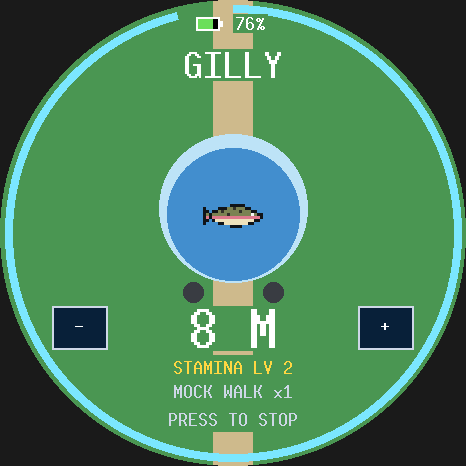
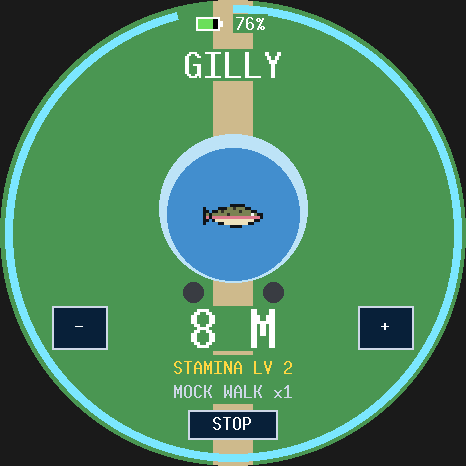
touch for everything PWR does: Angler starts on a tap, charges a cast while a finger is held and casts when it lifts, and reels in on a tap; a walk has STOP, teaching has DONE/BACK, practice has BACK beside NEW COMMAND, and the contest's tier rows and BACK take taps (drawn from the same rectangles).

Changed region(s): [[0.3605, 0.8412, 0.6309, 0.9614]]

diff --git a/crates/pals_game/src/contest.rs b/crates/pals_game/src/contest.rs
@@ -98,6 +98,19 @@ pub const RIVALS: [&str; 3] = ["SPLASHY", "FINLEY", "OLD BOOTS"];
 /// The tier list: the four, then BACK.
 const TIER_CHOICES: usize = TIERS.len() + 1;
 
+pub mod ui {
+    pub use orbit_ui::Button;
+
+    /// The tier list's rows (drawn by `choose_tier`), then BACK under them.
+    pub const TIER_BUTTONS: [Button; 5] = [
+        Button::new(83, 106, 300, 44, ""),
+        Button::new(83, 158, 300, 44, ""),
+        Button::new(83, 210, 300, 44, ""),
+        Button::new(83, 262, 300, 44, ""),
+        Button::new(183, 330, 100, 32, ""),
+    ];
+}
+
 /// A show in progress.
 #[derive(Clone, Debug, PartialEq)]
 pub struct Show {
@@ -280,8 +293,12 @@ fn perform(
         }
         ContestPhase::ChooseTier { pet } => {
             let pet = *pet;
-            if pressed {
-                let pointed = list_choice(tilt.steer_deg, TIER_CHOICES, 0);
+            let tapped = tap.and_then(|at| {
+                let row = orbit_ui::tapped(at, &ui::TIER_BUTTONS)?;
+                ui::TIER_BUTTONS.iter().position(|button| button == row)
+            });
+            let picked = tapped.or(pressed.then(|| list_choice(tilt.steer_deg, TIER_CHOICES, 0)));
+            if let Some(pointed) = picked {
                 let level = pals.pets[pet].stamina_level();
                 next = match TIERS.get(pointed) {
                     Some(tier) if level >= tier.min_level => {
@@ -542,11 +559,19 @@ fn choose_tier(shapes: &mut Vec<Shape>, pals: &Pals, pet: &Pet, pointed: usize) 
     );
     let level = pet.stamina_level();
     for (i, tier) in TIERS.iter().enumerate() {
-        let y = 128 + i as i32 * 52;
+        let row = ui::TIER_BUTTONS[i].area;
+        let (left, top) = (row.top_left.x, row.top_left.y);
+        let y = top + row.size.height as i32 / 2;
         let open = level >= tier.min_level;
         let frame = if i == pointed { GOLD } else { CURTAIN };
-        shapes.push(rect(83, y - 22, 300, 44, frame));
-        shapes.push(rect(85, y - 20, 296, 40, DEEP));
+        shapes.push(rect(left, top, row.size.width, row.size.height, frame));
+        shapes.push(rect(
+            left + 2,
+            top + 2,
+            row.size.width - 4,
+            row.size.height - 4,
+            DEEP,
+        ));
         shapes.push(label_at(
             Point::new(170, y),
             tier.name,

diff --git a/crates/angler_game/tests/angler.rs b/crates/angler_game/tests/angler.rs
@@ -332,6 +332,59 @@ fn ignoring_the_fight_lets_the_fish_escape_and_play_resumes() {
 }
 
 #[test]
+fn a_tap_off_the_buttons_starts_fishing_too() {
+    let mut app = headless_app();
+    tap(&mut app, Vec2::new(233.0, 260.0));
+    assert!(
+        matches!(phase(&app), Phase::Aim { .. }),
+        "{:?}",
+        phase(&app)
+    );
+}
+
+#[test]
+fn a_finger_held_down_charges_the_cast_and_lifting_it_casts() {
+    let mut app = headless_app();
+    start_aiming(&mut app);
+    set_tilt(&mut app, -15.0, 0.0);
+    let finger = Vec2::new(233.0, 300.0);
+    for _ in 0..frames_for(0.5) {
+        app.world_mut()
+            .resource_mut::<orbit_core::Touch>()
+            .set(Some(finger));
+        update(&mut app);
+    }
+    assert!(matches!(
+        phase(&app),
+        Phase::Aim {
+            charging_secs: Some(_)
+        }
+    ));
+    app.world_mut()
+        .resource_mut::<orbit_core::Touch>()
+        .set(None);
+    update(&mut app);
+    let Phase::Flight { flight, .. } = phase(&app) else {
+        panic!("expected a cast, got {:?}", phase(&app));
+    };
+    let expected = Flight::launch(55.0, 0.5).vel;
+    assert!(flight.vel.distance(expected) < 25.0, "{:?}", flight.vel);
+}
+
+#[test]
+fn a_tap_while_waiting_reels_the_line_back_in() {
+    let mut app = headless_app();
+    start_aiming(&mut app);
+    cast_onto_spot(&mut app, 0.0, 0.7);
+    assert!(run_until(&mut app, 600, |p| matches!(
+        p,
+        Phase::Waiting { .. }
+    )));
+    tap(&mut app, Vec2::new(233.0, 300.0));
+    assert_eq!(phase(&app), Phase::Notice("REELED IN"));
+}
+
+#[test]
 fn pressing_while_waiting_reels_the_line_back_in() {
     let mut app = headless_app();
     start_aiming(&mut app);
@@ -401,11 +454,9 @@ fn sounds(app: &App) -> Vec<SoundCommand> {
 }
 
 #[test]
-fn the_title_has_log_and_settings_buttons_and_stray_taps_do_nothing() {
+fn the_title_has_log_and_settings_buttons() {
     let mut app = headless_app();
     assert!(shows(&app, "LOG") && shows(&app, "SETTINGS"));
-    tap(&mut app, Vec2::new(233.0, 300.0));
-    assert_eq!(phase(&app), Phase::Title);
     open_settings(&mut app);
     assert!(shows(&app, "DIFFICULTY") && shows(&app, "NORMAL"));
 }

diff --git a/crates/angler_game/src/session.rs b/crates/angler_game/src/session.rs
@@ -196,6 +196,8 @@ fn play(
     let action = buttons.action;
 
     let tap = touch.just_pressed();
+    // A finger on the glass works the cast like holding PWR.
+    let holding = action.held() || touch.position().is_some();
     let on_screen: &[ui::Button] = match session.phase {
         Phase::Title => &[ui::HOME, ui::LOG, ui::SETTINGS],
         Phase::Settings => &[ui::EASIER, ui::HARDER, ui::GUTEN, ui::BACK],
@@ -234,6 +236,7 @@ fn play(
         Phase::Title if action.pressed() => Some(aim()),
         Phase::Title if tapped(&ui::LOG) => Some(Phase::Log),
         Phase::Title if tapped(&ui::SETTINGS) => Some(Phase::Settings),
+        Phase::Title if tap => Some(aim()),
         Phase::Log if action.pressed() || tap => Some(Phase::Title),
         Phase::Settings if tapped(&ui::HARDER) => {
             difficulty_change = Some(settings.difficulty.next());
@@ -259,15 +262,15 @@ fn play(
             charging_secs: None,
         } if tapped(&ui::MENU) => Some(Phase::Title),
         Phase::Aim { charging_secs } => match *charging_secs {
-            None if action.pressed() => {
+            None if action.pressed() || tap => {
                 *charging_secs = Some(0.0);
                 None
             }
-            Some(secs) if action.held() && secs + dt > cast::MAX_CHARGE_SECS => {
+            Some(secs) if holding && secs + dt > cast::MAX_CHARGE_SECS => {
                 *charging_secs = None;
                 Some(Phase::Notice("LET GO!"))
             }
-            Some(secs) if action.held() => {
+            Some(secs) if holding => {
                 *charging_secs = Some(secs + dt);
                 None
             }
@@ -289,7 +292,7 @@ fn play(
             }
             None => None,
         },
-        Phase::Waiting { .. } if action.pressed() => Some(Phase::Notice("REELED IN")),
+        Phase::Waiting { .. } if action.pressed() || tap => Some(Phase::Notice("REELED IN")),
         Phase::Waiting {
             bobber_x,
             bite_in,

diff --git a/crates/pals_game/src/walk.rs b/crates/pals_game/src/walk.rs
@@ -38,6 +38,8 @@ pub mod ui {
     /// On a mock walk: slow it down, or fast-forward it.
     pub const SLOWER: Button = Button::new(52, 306, 56, 44, "-");
     pub const FASTER: Button = Button::new(358, 306, 56, 44, "+");
+    /// Ends the walk, like PWR.
+    pub const STOP: Button = Button::new(188, 410, 90, 30, "STOP");
 }
 
 #[derive(Clone, Debug, PartialEq)]
@@ -204,11 +206,12 @@ fn stroll(
                 *levelled_at = Some(*secs);
                 sound.play(&angler_game::audio::CATCH);
             }
-            save |= *unsaved_m >= SAVE_EVERY_M || pressed;
+            let stop = pressed || tap.is_some_and(|at| ui::STOP.hit(at));
+            save |= *unsaved_m >= SAVE_EVERY_M || stop;
             if save {
                 *unsaved_m = 0.0;
             }
-            if pressed {
+            if stop {
                 next = Some(WalkPhase::Done {
                     pet: *pet,
                     meters: trail.meters as u32,
@@ -274,12 +277,9 @@ fn draw_frame(
                 (None, None) if *secs >= NO_SKY_SECS => "NO SKY? TRY MOCK WALK".into(),
                 (None, None) => "LOOKING FOR THE SKY".into(),
             };
-            let lines = [
-                label(368, &level, 1, GOLD),
-                label(392, &status, 1, HINT),
-                label(420, "PRESS TO STOP", 1, HINT),
-            ];
+            let lines = [label(368, &level, 1, GOLD), label(392, &status, 1, HINT)];
             plated_lines(shapes, lines, GRASS);
+            button(shapes, &ui::STOP);
             if levelled_at.is_some_and(|at| secs - at < LEVEL_UP_SECS) {
                 text(shapes, label(104, "LEVEL UP!", 2, GOLD));
             }

diff --git a/crates/pals_game/src/home/mod.rs b/crates/pals_game/src/home/mod.rs
@@ -279,7 +279,11 @@ fn play(
         HomePhase::Tank => &[ui::OUT],
         HomePhase::Card { .. } => &ui::CARD_BUTTONS,
         HomePhase::Tricks { .. } => &ui::TRICK_ROWS,
-        HomePhase::Practice { .. } => &[ui::NEW_WORD],
+        HomePhase::Practice { .. } => &[ui::NEW_WORD, ui::PRACTICE_BACK],
+        HomePhase::Teach {
+            step: TeachStep::Listen { .. },
+            ..
+        } => &[ui::TEACH_DONE],
         _ => &[],
     };
     let pressed_button = tap.and_then(|at| orbit_ui::tapped(at, on_screen));
@@ -458,7 +462,7 @@ fn play(
                     (None, _) => (Heard::Once(gesture), None),
                 };
             }
-            if pressed {
+            if pressed || tapped(&ui::TEACH_DONE) {
                 let (voice, gesture) = (word.sure(), drawn.sure());
                 if voice.is_none() && gesture.is_none() {
                     next = Some(HomePhase::Tricks { pet });
@@ -505,7 +509,7 @@ fn play(
                     slot,
                     step: listening(),
                 });
-            } else if pressed {
+            } else if pressed || tapped(&ui::PRACTICE_BACK) {
                 next = Some(HomePhase::Tricks { pet });
             } else if let Some(meant) = command {
                 match meant {

diff --git a/crates/pals_game/tests/home.rs b/crates/pals_game/tests/home.rs
@@ -355,3 +355,40 @@ fn a_second_take_of_a_different_word_isnt_taken() {
     assert!(shows(&app, "THAT SOUNDED DIFFERENT"));
     assert!(shows(&app, "SAY IT AGAIN"));
 }
+
+#[test]
+fn tapping_back_ends_practice() {
+    let mut app = practicing(10);
+    tap(&mut app, pals_game::home::ui::PRACTICE_BACK.center());
+    assert_eq!(phase(&app), HomePhase::Tricks { pet: 0 });
+}
+
+#[test]
+fn tapping_done_finishes_teaching_and_back_leaves_untaught() {
+    let mut app = home_with(vec![pet("GILLY", None)]);
+    open_trick(&mut app, 2);
+    tick(&mut app, 60 * 4);
+    assert!(matches!(
+        phase(&app),
+        HomePhase::Teach {
+            step: TeachStep::Listen { .. },
+            ..
+        }
+    ));
+    assert!(shows(&app, "BACK"));
+    tap(&mut app, pals_game::home::ui::TEACH_DONE.center());
+    assert_eq!(phase(&app), HomePhase::Tricks { pet: 0 });
+
+    let mut app = home_with(vec![pet("GILLY", None)]);
+    open_trick(&mut app, 2);
+    tick(&mut app, 60 * 4);
+    swipe_up(&mut app);
+    swipe_up(&mut app);
+    assert!(shows(&app, "DONE"));
+    tap(&mut app, pals_game::home::ui::TEACH_DONE.center());
+    assert!(
+        matches!(phase(&app), HomePhase::Practice { slot: 2, .. }),
+        "{:?}",
+        phase(&app)
+    );
+}

diff --git a/crates/pals_game/src/home/draw.rs b/crates/pals_game/src/home/draw.rs
@@ -91,12 +91,8 @@ pub(crate) fn draw_frame(
                     shapes.push(label(70, &word_text, 1, TEXT));
                     shapes.push(label(92, &stroke_text, 1, TEXT));
                     let done = matches!(word, Heard::Sure(_)) || matches!(stroke, Heard::Sure(_));
-                    let hint = if done {
-                        "PRESS WHEN DONE"
-                    } else {
-                        "PRESS TO GO BACK"
-                    };
-                    shapes.push(label(404, hint, 1, HINT));
+                    let text = if done { "DONE" } else { "BACK" };
+                    labelled_button(shapes, &ui::TEACH_DONE, text, HINT);
                     listening(shapes, &mic);
                 }
             }
@@ -125,6 +121,7 @@ pub(crate) fn draw_frame(
             toast(shapes, &home);
             shapes.push(label(394, &command_text(trick), 1, HINT));
             labelled_button(shapes, &ui::NEW_WORD, ui::NEW_WORD.text, HINT);
+            labelled_button(shapes, &ui::PRACTICE_BACK, ui::PRACTICE_BACK.text, HINT);
             listening(shapes, &mic);
         }
     }

diff --git a/crates/pals_game/tests/contest.rs b/crates/pals_game/tests/contest.rs
@@ -229,3 +229,27 @@ fn back_from_choosing_a_fish_leaves_the_hall() {
     click_action(&mut app);
     assert_eq!(app.should_exit(), Some(AppExit::Success));
 }
+
+#[test]
+fn tapping_a_tier_enters_it_and_tapping_back_goes_back() {
+    let mut app = hall(vec![performer(400.0, 50)], 0);
+    click_action(&mut app);
+    assert_eq!(phase(&app), ContestPhase::ChooseTier { pet: 0 });
+    tap(&mut app, pals_game::contest::ui::TIER_BUTTONS[1].center());
+    assert!(
+        matches!(phase(&app), ContestPhase::Show { tier: 1, .. }),
+        "{:?}",
+        phase(&app)
+    );
+
+    let mut app = hall(vec![performer(0.0, 50)], 0);
+    click_action(&mut app);
+    tap(&mut app, pals_game::contest::ui::TIER_BUTTONS[1].center());
+    assert_eq!(
+        phase(&app),
+        ContestPhase::ChooseTier { pet: 0 },
+        "OPEN is locked"
+    );
+    tap(&mut app, pals_game::contest::ui::TIER_BUTTONS[4].center());
+    assert_eq!(phase(&app), ContestPhase::ChoosePet);
+}

diff --git a/crates/pals_game/src/home/ui.rs b/crates/pals_game/src/home/ui.rs
@@ -18,4 +18,8 @@ pub const TRICK_ROWS: [Button; 6] = [
     Button::new(173, 330, 120, 38, "BACK"),
 ];
 /// In practice: teach the trick a different word or stroke.
-pub const NEW_WORD: Button = Button::new(163, 412, 140, 30, "NEW COMMAND");
+pub const NEW_WORD: Button = Button::new(203, 404, 146, 30, "NEW COMMAND");
+/// In practice, beside NEW COMMAND: back to the tricks, like PWR.
+pub const PRACTICE_BACK: Button = Button::new(117, 404, 80, 30, "BACK");
+/// While teaching: DONE once a word or stroke is sure, else BACK; like PWR.
+pub const TEACH_DONE: Button = Button::new(183, 396, 100, 32, "DONE");

diff --git a/crates/pals_game/tests/walk.rs b/crates/pals_game/tests/walk.rs
@@ -204,3 +204,16 @@ fn a_real_walk_has_no_pace_buttons() {
     start_walking(&mut app);
     assert!(!shows(&app, "+") && !shows(&app, "-"));
 }
+
+#[test]
+fn tapping_stop_ends_a_walk() {
+    let mut app = park(&[("GILLY", 0.0)], true);
+    start_walking(&mut app);
+    tick(&mut app, 60);
+    tap(&mut app, pals_game::walk::ui::STOP.center());
+    assert!(
+        matches!(phase(&app), WalkPhase::Done { .. }),
+        "{:?}",
+        phase(&app)
+    );
+}

diff --git a/tools/qemu-smoke/src/bin/pals.rs b/tools/qemu-smoke/src/bin/pals.rs
@@ -53,7 +53,8 @@ fn main() -> ! {
     'tour: for round in 0..2 {
         for place in DOORS {
             at_town.push(internal_heap_used());
-            smoke.wait(0.3);
+            // Back from a place, the town won't go in again for a moment.
+            smoke.wait(pals_game::town::ENTRY_LOCK_SECS + 0.3);
             smoke.app.world_mut().resource_mut::<Town>().stand_at(place);
             smoke.frame();
             click_action(&mut smoke.app);

diff --git a/crates/angler_game/src/draw.rs b/crates/angler_game/src/draw.rs
@@ -80,7 +80,7 @@ fn draw_frame(
         Phase::Title => {
             lake(shapes, &session, cast::BASE_ELEVATION_DEG, false);
             shapes.push(label(110, "GONE FISHIN", 3, TEXT));
-            shapes.push(label(160, "PRESS BUTTON TO FISH", 1, HINT));
+            shapes.push(label(160, "PRESS OR TAP TO FISH", 1, HINT));
             level(shapes, &tilt);
             if launcher.is_some() {
                 button(shapes, &ui::HOME);
